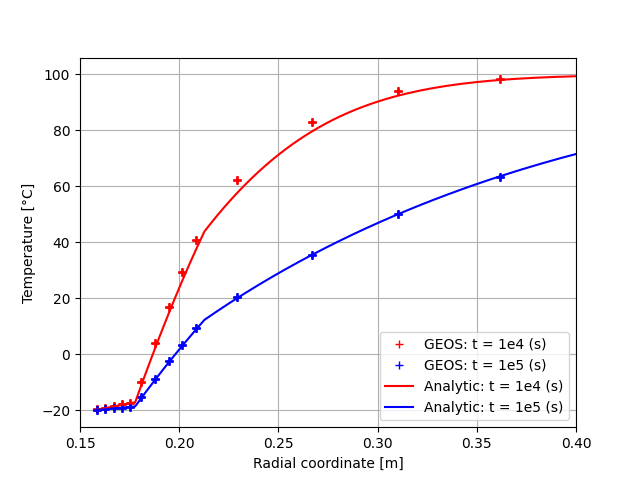
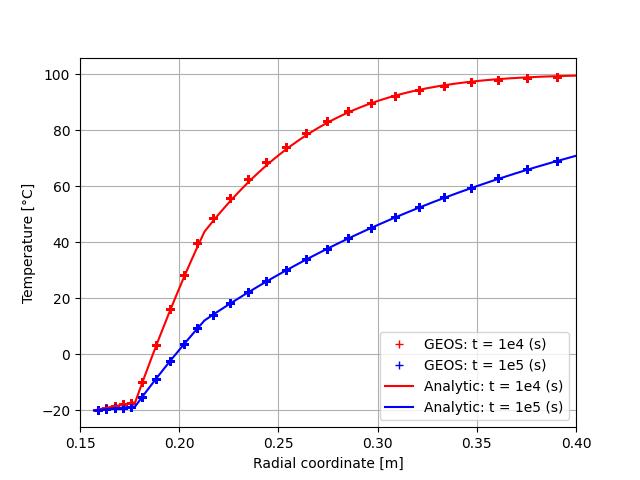
better fit for temperature field

diff --git a/src/docs/sphinx/advancedExamples/validationStudies/wellboreProblems/casedContactThermoElasticWellbore/thermoElastic_casedContactWellbore_temperature.py b/src/docs/sphinx/advancedExamples/validationStudies/wellboreProblems/casedContactThermoElasticWellbore/thermoElastic_casedContactWellbore_temperature.py
@@ -29,23 +29,23 @@ def main():
 
 		if (hasLabel):
 			plt.plot( rCoord,
-					  temperature[9, 0:nElements],        
+					  temperature[10, 0:nElements],        
 					  'r+',
 					  label='GEOS: t = 1e4 (s)')
 
 			plt.plot( rCoord,
-					  temperature[99, 0:nElements],        
+					  temperature[100, 0:nElements],        
 					  'b+',
 					  label='GEOS: t = 1e5 (s)')
 
 			hasLabel = False
 		else:
 			plt.plot( rCoord,
-					  temperature[9, 0:nElements],        
+					  temperature[10, 0:nElements],        
 					  'r+')
 
 			plt.plot( rCoord,
-					  temperature[99, 0:nElements],        
+					  temperature[100, 0:nElements],        
 					  'b+')
 
 	temperature_radial_analytic_1e4s = genfromtxt('temperature_radial_analytic_10000s.txt')
